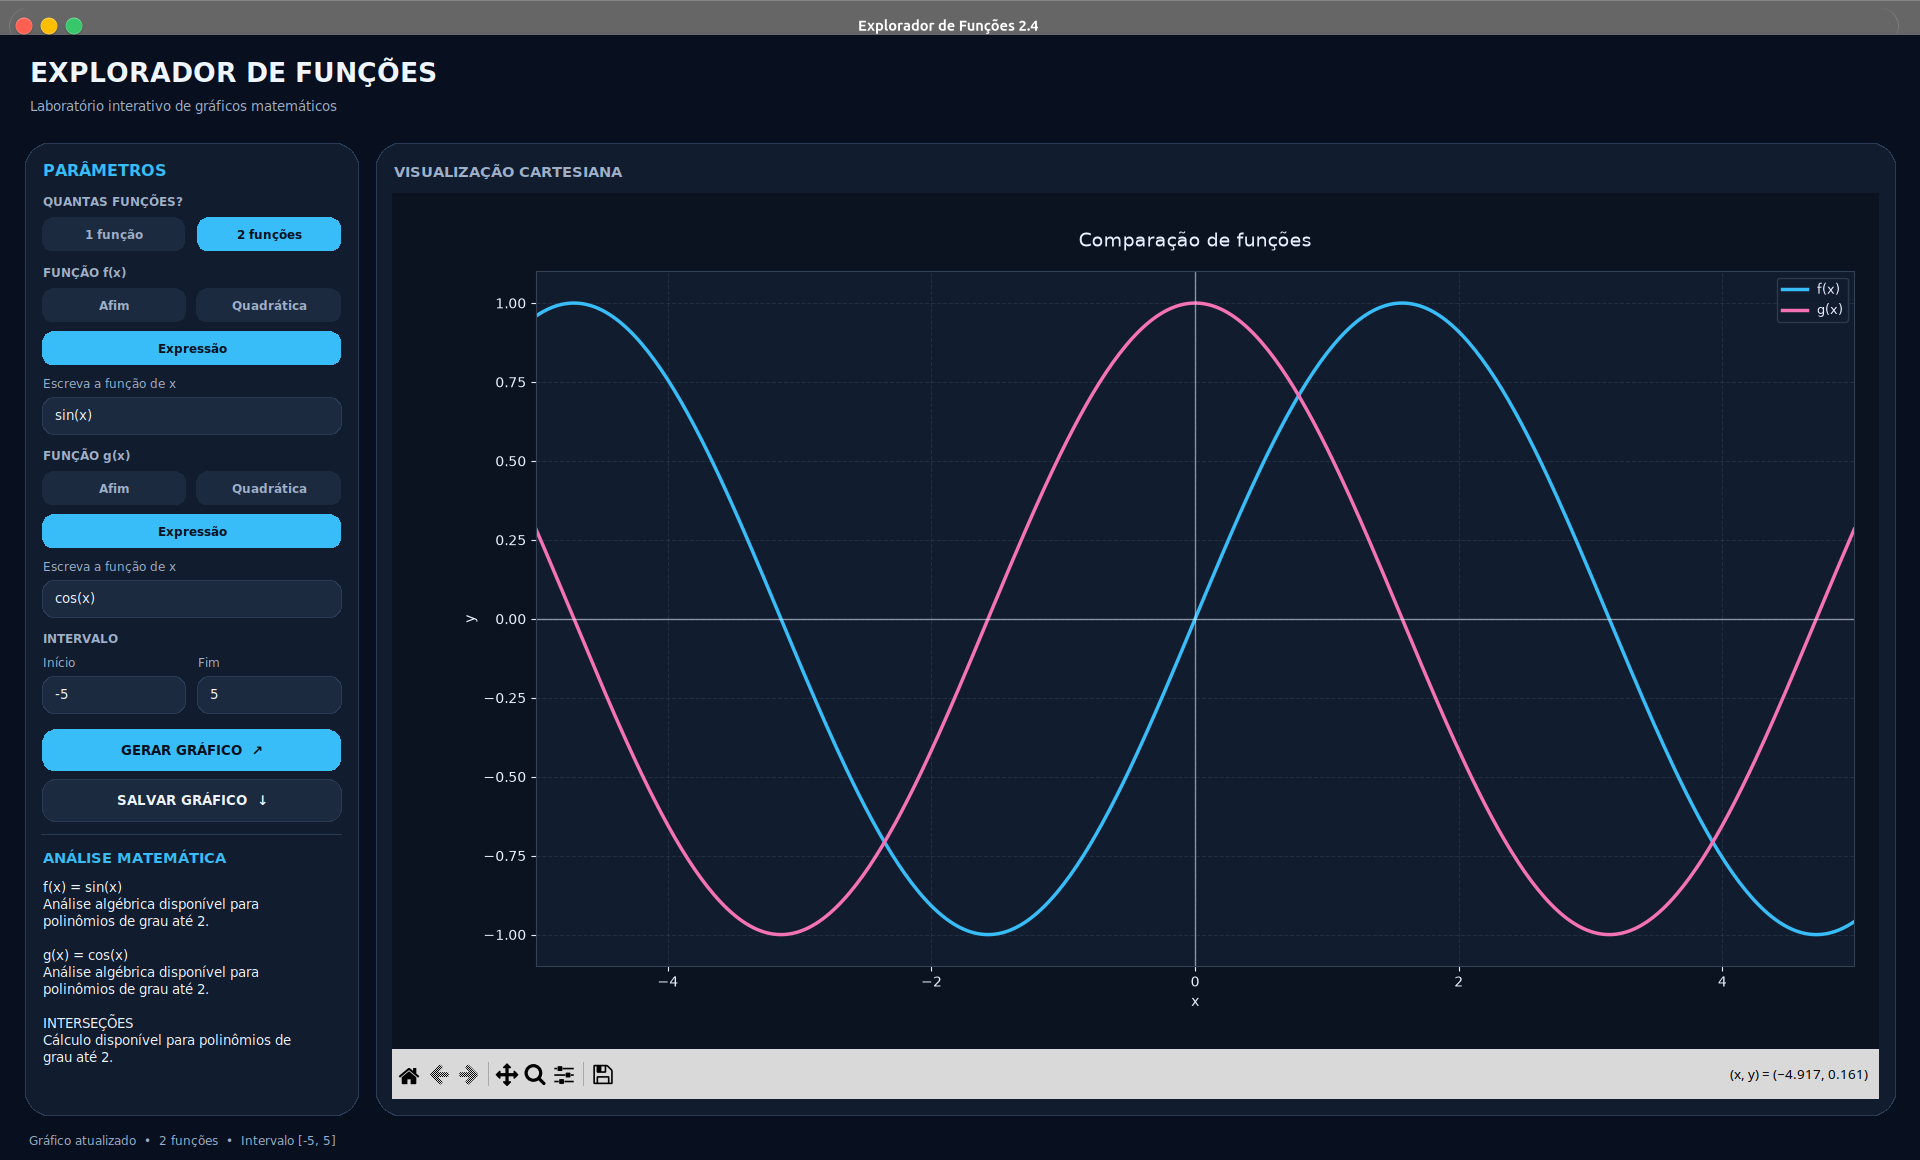
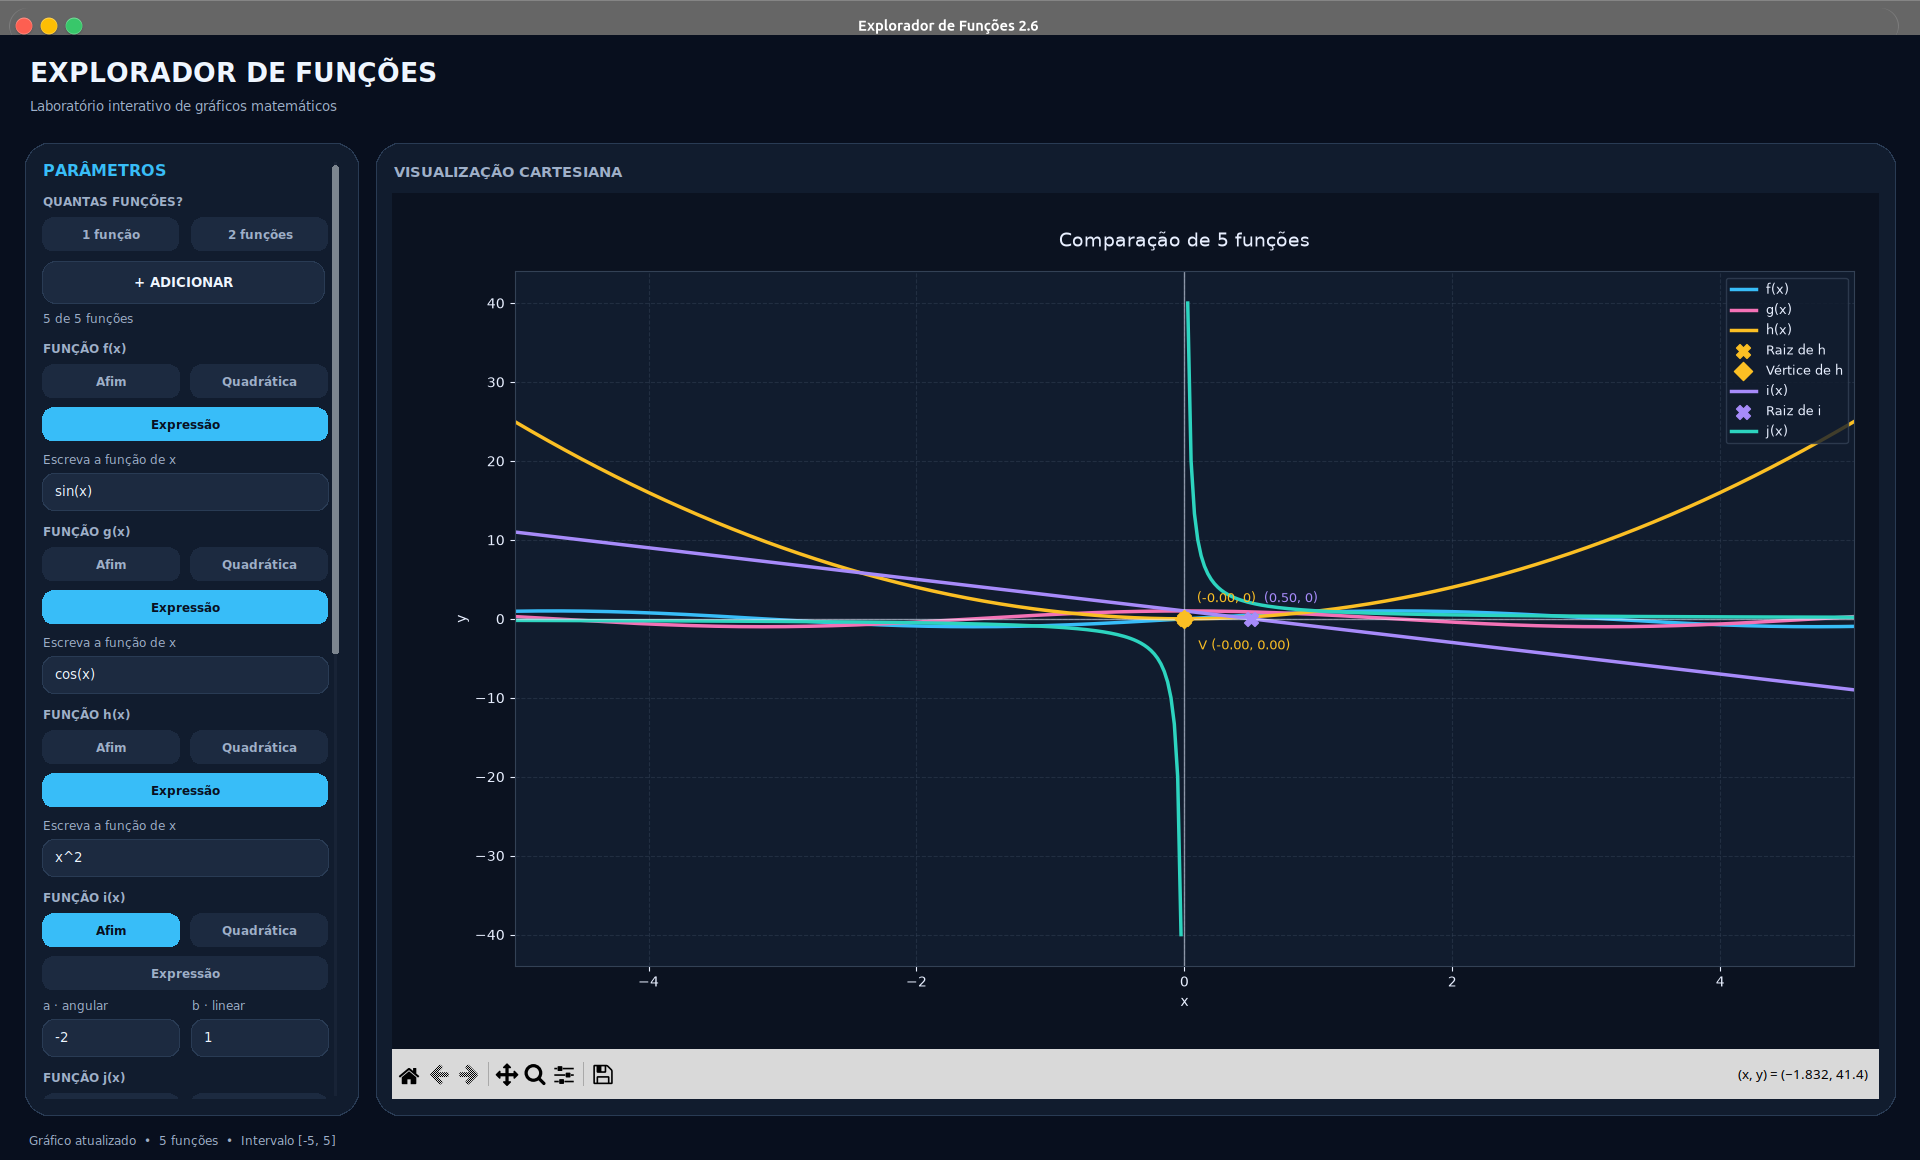
style: simplifica barra de rolagem lateral

diff --git a/explorador-funcoes/interface.py b/explorador-funcoes/interface.py
@@ -197,10 +197,97 @@ class BotaoModo(tk.Canvas):
         self.itemconfigure(self.rotulo, fill=FUNDO if selecionado else SUAVE)
 
 
+class BarraRolagemMinimalista(tk.Canvas):
+    def __init__(self, parent, command):
+        super().__init__(
+            parent, bg=PAINEL, width=13,
+            highlightthickness=0, bd=0, cursor="hand2",
+        )
+        self.command = command
+        self.inicio = 0.0
+        self.fim = 1.0
+        self.deslocamento = None
+        self.hover = False
+        self.bind("<Configure>", self.redesenhar)
+        self.bind("<Button-1>", self.clicar)
+        self.bind("<B1-Motion>", self.arrastar)
+        self.bind("<ButtonRelease-1>", self.soltar)
+        self.bind("<Enter>", self.entrar)
+        self.bind("<Leave>", self.sair)
+
+    def set(self, inicio, fim):
+        self.inicio = max(0.0, min(float(inicio), 1.0))
+        self.fim = max(self.inicio, min(float(fim), 1.0))
+        self.redesenhar()
+
+    def geometria_thumb(self):
+        altura = max(self.winfo_height() - 12, 1)
+        proporcao = self.fim - self.inicio
+        tamanho = min(altura, max(34, altura * proporcao))
+        curso = max(altura - tamanho, 0)
+        topo = 6 + curso * (self.inicio / max(1 - proporcao, 0.00001))
+        return topo, topo + tamanho, curso
+
+    def redesenhar(self, _evento=None):
+        self.delete("all")
+        largura = self.winfo_width()
+        altura = self.winfo_height()
+        if largura < 4 or altura < 20:
+            return
+        self.create_polygon(
+            *pontos_arredondados(5, 3, largura - 5, altura - 3, 2),
+            fill="#182336", outline="",
+        )
+        if self.fim - self.inicio >= 0.99999:
+            return
+        topo, base, _ = self.geometria_thumb()
+        self.create_polygon(
+            *pontos_arredondados(3, topo, largura - 3, base, 3),
+            fill="#a7adb6" if self.hover or self.deslocamento is not None else "#7c858f",
+            outline="", tags="thumb",
+        )
+
+    def clicar(self, evento):
+        if self.fim - self.inicio >= 0.99999:
+            return
+        topo, base, curso = self.geometria_thumb()
+        if topo <= evento.y <= base:
+            self.deslocamento = evento.y - topo
+        else:
+            self.deslocamento = (base - topo) / 2
+            self.mover(evento.y, curso)
+        self.redesenhar()
+
+    def mover(self, posicao, curso=None):
+        if curso is None:
+            _, _, curso = self.geometria_thumb()
+        if curso <= 0 or self.deslocamento is None:
+            return
+        tamanho_visivel = self.fim - self.inicio
+        deslocamento = (posicao - self.deslocamento - 6) / curso
+        fracao = max(0.0, min(deslocamento, 1.0)) * (1 - tamanho_visivel)
+        self.command("moveto", fracao)
+
+    def arrastar(self, evento):
+        self.mover(evento.y)
+
+    def soltar(self, _evento):
+        self.deslocamento = None
+        self.redesenhar()
+
+    def entrar(self, _evento):
+        self.hover = True
+        self.redesenhar()
+
+    def sair(self, _evento):
+        self.hover = False
+        self.redesenhar()
+
+
 class ExploradorApp:
     def __init__(self, janela):
         self.janela = janela
-        self.janela.title("Explorador de Funções 2.4")
+        self.janela.title("Explorador de Funções 2.6")
         self.janela.geometry("1300x820")
         self.janela.minsize(1000, 670)
         self.janela.configure(bg=FUNDO)
@@ -209,8 +296,8 @@ class ExploradorApp:
         self.canvas = None
         self.toolbar = None
         self.campos = {}
-        self.modo = "duas"
-        self.tipos = {"f": "Afim", "g": "Afim"}
+        self.quantidade_funcoes = 2
+        self.tipos = {nome: "Afim" for nome in "fghij"}
         self.botoes_tipo = {}
         self.rotulos = {}
         self.campos_c = {}
@@ -299,7 +386,7 @@ class ExploradorApp:
             linha_expressao, "Escreva a função de x", 9, SUAVE
         ).pack(anchor="w", pady=(4, 3))
         campo = CampoArredondado(
-            linha_expressao, "sin(x)" if nome == "f" else "cos(x)"
+            linha_expressao, {"f": "sin(x)", "g": "cos(x)", "h": "x^2", "i": "sqrt(x)", "j": "1/x"}[nome]
         )
         campo.pack(fill="x")
         campo.bind_enter(self.gerar_grafico)
@@ -324,13 +411,14 @@ class ExploradorApp:
         lateral = barra.conteudo
 
         rolagem = tk.Canvas(lateral, bg=PAINEL, highlightthickness=0, bd=0)
-        rolagem.pack(side="left", fill="both", expand=True)
-        barra_rolagem = tk.Scrollbar(
-            lateral, orient="vertical", command=rolagem.yview,
-            bg=CAMPO, troughcolor=PAINEL,
+        barra_rolagem = BarraRolagemMinimalista(
+            lateral, command=rolagem.yview,
         )
         barra_rolagem.pack(side="right", fill="y")
+        rolagem.pack(side="left", fill="both", expand=True)
         rolagem.configure(yscrollcommand=barra_rolagem.set)
+        self.rolagem = rolagem
+        self.barra_rolagem = barra_rolagem
         interno = tk.Frame(rolagem, bg=PAINEL)
         janela_interna = rolagem.create_window((0, 0), window=interno, anchor="nw")
         interno.bind(
@@ -341,11 +429,6 @@ class ExploradorApp:
             "<Configure>",
             lambda evento: rolagem.itemconfigure(janela_interna, width=evento.width),
         )
-        rolagem.bind("<Button-4>", lambda _evento: rolagem.yview_scroll(-3, "units"))
-        rolagem.bind("<Button-5>", lambda _evento: rolagem.yview_scroll(3, "units"))
-        rolagem.bind("<MouseWheel>", lambda evento: rolagem.yview_scroll(
-            -1 if evento.delta > 0 else 1, "units"
-        ))
 
         self.texto(interno, "PARÂMETROS", 12, DESTAQUE, True).pack(
             anchor="w", pady=(0, 7)
@@ -365,8 +448,29 @@ class ExploradorApp:
         self.botao_duas.pack(side="left", fill="x", expand=True, padx=(5, 0))
         self.botao_duas.definir_selecionado(True)
 
-        self.grupo_f = self.criar_grupo_funcao(interno, "f", ("2", "1", "0"))
-        self.grupo_g = self.criar_grupo_funcao(interno, "g", ("-1", "4", "0"))
+        controles = tk.Frame(interno, bg=PAINEL)
+        controles.pack(fill="x", pady=(8, 3))
+        BotaoArredondado(
+            controles, "+ ADICIONAR", self.adicionar_funcao, contorno=True
+        ).pack(side="left", fill="x", expand=True, padx=(0, 4))
+        BotaoArredondado(
+            controles, "− REMOVER", self.remover_funcao, contorno=True
+        ).pack(side="left", fill="x", expand=True, padx=(4, 0))
+        self.indicador_funcoes = self.texto(interno, "2 de 5 funções", 9, SUAVE)
+        self.indicador_funcoes.pack(anchor="w", pady=(2, 0))
+
+        self.grupos_funcoes = {}
+        for nome, valores in (
+            ("f", ("2", "1", "0")),
+            ("g", ("-1", "4", "0")),
+            ("h", ("1", "0", "0")),
+            ("i", ("-2", "1", "0")),
+            ("j", ("0", "3", "0")),
+        ):
+            grupo = self.criar_grupo_funcao(interno, nome, valores)
+            self.grupos_funcoes[nome] = grupo
+            if nome in "hij":
+                grupo.pack_forget()
 
         self.grupo_intervalo = tk.Frame(interno, bg=PAINEL)
         self.texto(self.grupo_intervalo, "INTERVALO", 9, SUAVE, True).pack(
@@ -405,6 +509,10 @@ class ExploradorApp:
         self.area_grafico = tk.Frame(direita, bg=PAINEL)
         self.area_grafico.pack(fill="both", expand=True)
 
+        self.vincular_rolagem(interno)
+        self.vincular_rolagem(rolagem)
+        self.vincular_rolagem(barra_rolagem)
+
         self.status = tk.StringVar(value="Pronto")
         tk.Label(
             self.janela, textvariable=self.status, bg=FUNDO,
@@ -412,17 +520,54 @@ class ExploradorApp:
             padx=28, pady=11,
         ).pack(fill="x")
 
-    def alterar_modo(self, modo):
-        if self.modo == modo:
+    def rolar_painel(self, direcao):
+        self.rolagem.yview_scroll(direcao, "units")
+        return "break"
+
+    def vincular_rolagem(self, widget):
+        widget.bind(
+            "<Button-4>", lambda _evento: self.rolar_painel(-3), add="+"
+        )
+        widget.bind(
+            "<Button-5>", lambda _evento: self.rolar_painel(3), add="+"
+        )
+        widget.bind(
+            "<MouseWheel>",
+            lambda evento: self.rolar_painel(
+                -3 if evento.delta > 0 else 3
+            ),
+            add="+",
+        )
+        for filho in widget.winfo_children():
+            self.vincular_rolagem(filho)
+
+    @property
+    def nomes_ativos(self):
+        return "fghij"[:self.quantidade_funcoes]
+
+    def definir_quantidade(self, quantidade):
+        if not 1 <= quantidade <= 5 or quantidade == self.quantidade_funcoes:
             return
-        self.modo = modo
-        self.botao_uma.definir_selecionado(modo == "uma")
-        self.botao_duas.definir_selecionado(modo == "duas")
-        if modo == "uma":
-            self.grupo_g.pack_forget()
-        else:
-            self.grupo_g.pack(fill="x", before=self.grupo_intervalo)
+        self.quantidade_funcoes = quantidade
+        for indice, nome in enumerate("fghij"):
+            grupo = self.grupos_funcoes[nome]
+            if indice < quantidade and not grupo.winfo_manager():
+                grupo.pack(fill="x", before=self.grupo_intervalo)
+            elif indice >= quantidade and grupo.winfo_manager():
+                grupo.pack_forget()
+        self.botao_uma.definir_selecionado(quantidade == 1)
+        self.botao_duas.definir_selecionado(quantidade == 2)
+        self.indicador_funcoes.configure(text=f"{quantidade} de 5 funções")
         self.gerar_grafico()
+
+    def alterar_modo(self, modo):
+        self.definir_quantidade(1 if modo == "uma" else 2)
+
+    def adicionar_funcao(self):
+        self.definir_quantidade(self.quantidade_funcoes + 1)
+
+    def remover_funcao(self):
+        self.definir_quantidade(self.quantidade_funcoes - 1)
 
     def alterar_tipo(self, nome, tipo):
         if self.tipos[nome] == tipo:
@@ -445,7 +590,7 @@ class ExploradorApp:
                 self.campos_c[nome].pack_forget()
                 self.rotulos[f"a{nome}"].configure(text="a · angular")
                 self.rotulos[f"b{nome}"].configure(text="b · linear")
-        if nome == "f" or self.modo == "duas":
+        if nome in self.nomes_ativos:
             self.gerar_grafico()
 
     def ler_numero(self, chave):
@@ -503,9 +648,9 @@ class ExploradorApp:
 
     def gerar_grafico(self):
         try:
-            funcoes = [("f", self.obter_polinomio("f"))]
-            if self.modo == "duas":
-                funcoes.append(("g", self.obter_polinomio("g")))
+            funcoes = [
+                (nome, self.obter_polinomio(nome)) for nome in self.nomes_ativos
+            ]
 
             inicio = int(self.campos["inicio"].get())
             fim = int(self.campos["fim"].get())
@@ -529,7 +674,7 @@ class ExploradorApp:
                 funcao.polinomio if isinstance(funcao, Expressao) else funcao
                 for _, funcao in funcoes
             ]
-            if len(funcoes) == 2 and all(p is not None for p in polinomios):
+            if len(funcoes) >= 2 and all(p is not None for p in polinomios[:2]):
                 intersecoes = calcular_intersecoes_polinomios(
                     polinomios[0], polinomios[1]
                 )
@@ -563,9 +708,11 @@ class ExploradorApp:
                     + (" · fora do intervalo" if not inicio <= x <= fim else "")
                     for x, y in pontos
                 )
-            descricoes.append(f"INTERSEÇÕES\n{texto_intersecao}")
-        if len(funcoes) == 2 and intersecoes is None:
-            descricoes.append("INTERSEÇÕES\nCálculo disponível para polinômios de grau até 2.")
+            descricoes.append(f"INTERSEÇÕES f/g\n{texto_intersecao}")
+        if len(funcoes) >= 2 and intersecoes is None:
+            descricoes.append(
+                "INTERSEÇÕES f/g\nCálculo disponível para polinômios de grau até 2."
+            )
         self.resultado.set("\n\n".join(descricoes))
 
         if self.toolbar is not None:
@@ -589,8 +736,8 @@ class ExploradorApp:
 
         numero_funcoes = len(funcoes)
         self.status.set(
-            f"Gráfico atualizado  •  "
-            f"{'2 funções' if numero_funcoes == 2 else '1 função'}"
+            f"Gráfico atualizado  •  {numero_funcoes} "
+            f"{'função' if numero_funcoes == 1 else 'funções'}"
             f"  •  Intervalo [{inicio}, {fim}]"
         )
 

diff --git a/explorador-funcoes/visualizacao.py b/explorador-funcoes/visualizacao.py
@@ -21,6 +21,9 @@ def desenhar_funcoes(funcoes, inicio, fim, mostrar=False, tema_escuro=True):
         "grade": "#334155" if tema_escuro else "#d8dee8",
         "f": "#38bdf8" if tema_escuro else "#ef4444",
         "g": "#f472b6" if tema_escuro else "#2563eb",
+        "h": "#fbbf24" if tema_escuro else "#d97706",
+        "i": "#a78bfa" if tema_escuro else "#7c3aed",
+        "j": "#2dd4bf" if tema_escuro else "#0d9488",
         "intersecao": "#4ade80" if tema_escuro else "#16a34a",
         "vertice": "#fbbf24" if tema_escuro else "#ca8a04",
     }
@@ -65,7 +68,7 @@ def desenhar_funcoes(funcoes, inicio, fim, mostrar=False, tema_escuro=True):
         funcao.polinomio if isinstance(funcao, Expressao) else funcao
         for _, funcao in funcoes
     ]
-    if len(polinomios) == 2 and all(p is not None for p in polinomios):
+    if len(polinomios) >= 2 and all(p is not None for p in polinomios[:2]):
         situacao, intersecoes = calcular_intersecoes_polinomios(
             polinomios[0], polinomios[1]
         )
@@ -73,7 +76,7 @@ def desenhar_funcoes(funcoes, inicio, fim, mostrar=False, tema_escuro=True):
             for indice, (x, y) in enumerate(intersecoes):
                 if inicio <= x <= fim:
                     eixo.scatter(x, y, color=cores["intersecao"], s=115,
-                                 zorder=7, label="Interseção" if indice == 0 else None)
+                                 zorder=7, label="Interseção f/g" if indice == 0 else None)
                     eixo.annotate(f"({x:.2f}, {y:.2f})", (x, y),
                                   xytext=(10, 12), textcoords="offset points",
                                   color=cores["intersecao"], fontsize=9)
@@ -81,7 +84,10 @@ def desenhar_funcoes(funcoes, inicio, fim, mostrar=False, tema_escuro=True):
     eixo.axhline(0, color=cores["texto"], alpha=0.55, linewidth=1)
     eixo.axvline(0, color=cores["texto"], alpha=0.55, linewidth=1)
     eixo.set_xlim(inicio, fim)
-    titulo = "Comparação de funções" if len(funcoes) == 2 else "Análise de função"
+    titulo = (
+        f"Comparação de {len(funcoes)} funções"
+        if len(funcoes) > 1 else "Análise de função"
+    )
     eixo.set_title(titulo, color=cores["texto"], fontsize=14, pad=18)
     eixo.set_xlabel("x", color=cores["texto"])
     eixo.set_ylabel("y", color=cores["texto"])
